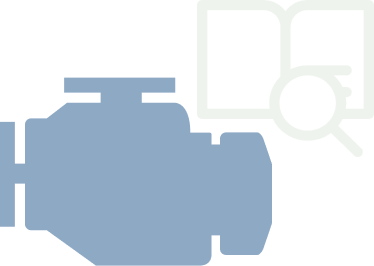
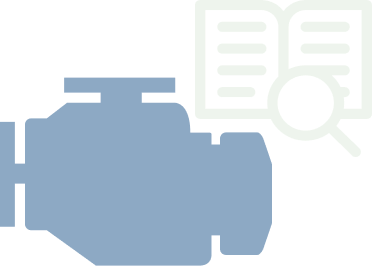
frontpage visually done

diff --git a/css/style.css b/css/style.css
@@ -19,22 +19,40 @@
   border-style: dotted;
   border-color: brown;
   border-width: 3px;
+  box-sizing: border-box;
+}
+
+/* basic setup */
+body {
+  margin: 0;
+  padding: 0;
+  font-family: "montserrat";
+  background-color: #0B2545;
+  color: #EEF4ED;
+}
+p {
+  margin: 0;
+  padding: 0;
+}
+h1 {
+  margin: 0;
 }
 
 /* pages */
 .frontpage {
   display: flex;
   flex-direction: row;
-  width: 100%;
+  width: 100vw;
 }
 
 .navigationBar {
   display: flex;
   flex-direction: column;
   width: 525px;
-  height: 100%;
+  height: 100vh;
   background-color: #134074;
 }
+
 .navigationBtn {
   display: flex;
   flex-direction: row;
@@ -48,6 +66,12 @@
   border-width: 7px;
 
   margin-bottom: 25px;
+
+  box-sizing: border-box;
+
+  color: #0B2545;
+  font-size: 24px;
+  font-weight: 600;
 }
 .navigationBtn img{
   width: 49px;
@@ -60,12 +84,176 @@
   display: flex;
   flex-direction: column;
   align-items: center;
+  font-size: 36px;
+  font-weight: 500;
+}
+
+#nbTitle {
+  font-size: 32px;
+  color: #8DA9C4;
+  margin-top: 0px;
+  margin-bottom: 44px;
+  text-align: center;
+}
+#nbName {
+  margin-top: 12px;
+  margin-bottom: 9px;
+  text-align: center;
 }
 
 .profile img{
   border-radius: 125px;
-  width: 250px;
+  width: 249px;
   border-style: solid;
   border-width: 5px;
   border-color: #8DA9C4;
+  box-sizing: border-box;
+
+  margin-top: 40px;
+  margin-left: 138px;
+  margin-right: 138px;
+}
+
+.timeline {
+  margin-left: 132px;
+}
+
+.timelineText {
+  margin-top: 40px;
+  width: 1090px;
+}
+
+#tlTitle1, #tlTitle2 {
+  font-size: 48px;
+  font-weight: bold;
+}
+
+#tlTitle2 {
+  margin-top: 0px;
+  color: #8DA9C4;
+}
+
+#tlText {
+  font-size: 22px;
+}
+
+.timeline {
+  width: 1125px;
+}
+
+.timelineTextbox {
+  width: 300px;
+  height: 250px;
+  background-color: #134074;
+  border-top-right-radius: 55px;
+  border-bottom-left-radius: 55px;
+  border-top-left-radius: 5px;
+  border-bottom-right-radius: 5px;
+
+  align-items: center;
+}
+
+.timelineTextbox p {
+  text-align: center;
+  font-size: 16px;
+}
+.timelineTextbox h1 {
+  text-align: center;
+  font-size: 20px;
+  margin-top: 20px;
+}
+
+.row2 {
+  background-color: #8DA9C4;
+  color: #134074;
+}
+
+.timelineImage {
+  height: 185px;
+  width: auto;
+  margin-right: 20px;
+  margin-left: 20px;
+}
+
+.timelineRow1 {
+  display: flex;
+  flex-direction: row;
+
+  align-items: center;
+  margin-top: 30px;
+}
+.timelineRow2 {
+  display: flex;
+  flex-direction: row;
+
+  align-items: center;
+}
+
+.timelineArrow {
+  position: relative;
+  display: flex;
+  flex-direction: row;
+
+  align-items: center;
+  text-align: center;
+
+  margin-top: 12px;
+  margin-bottom: 12px;
+}
+
+.timelineArrow p {
+  font-size: 24px;
+  font-weight: 600;
+  height: 36px;
+}
+
+.timelineArrow::before {
+  content: "";
+  position: absolute;
+  top: 50%;
+  left: 0;
+  right: 10px;
+  border-top: 3px dashed white;
+  transform: translateY(-50%);
+  z-index: 0;
+}
+
+.timelineArrow::after {
+  content: "";
+  position: absolute;
+  top: 50%;
+  right: 0;
+  transform: translateY(-50%);
+  border-top: 9px solid transparent;
+  border-bottom: 9px solid transparent;
+  border-left: 16px solid white;
+  z-index: 0;
+}
+
+.timelineArrow img {
+  width: 25px;
+  height: 44px;
+
+  position: relative;
+  z-index: 1;
+}
+
+.timelineStart {
+  position: absolute;
+  top: 50%;
+  left: 0;
+  width: 16px;
+  height: 16px;
+  border-radius: 50%;
+  background: white;
+  transform: translateY(-50%);
+  z-index: 0;
+}
+
+.timelineRow,
+.timelineArrow {
+  display: grid;
+  grid-template-columns: repeat(4, minmax(0, 1fr));
+  justify-items: center;
+  align-items: center;
 }

diff --git a/pages/frontpage.html b/pages/frontpage.html
@@ -3,8 +3,8 @@
     <div class="navigationBar">
         <div class="profile">
             <img src="images/mattiKliterne.jpg" alt="Billede af Matti Hedegaard Hansen">
-            <p>Matti Hedegaard Hansen</p>
-            <p>Computer Ingeniør</p>
+            <p id="nbName">Matti Hedegaard Hansen</p>
+            <p id="nbTitle">Computer Ingeniør</p>
         </div>
 
         <!--Menu buttons-->
@@ -35,35 +35,41 @@
     </div>
 
     <!--right Timeline div-->
-    <div>
+    <div class="timeline">
         <!--title and text (horizotnal)-->
-        <div>
-            <h1>Matti Hedegaard</h1>
-            <h1>Hansen</h1>
-            <p>some text to be replaced</p>
+        <div class="timelineText">
+            <p id="tlTitle1">Matti Hedegaard</p>
+            <p id="tlTitle2">Hansen</p>
+            <p id="tlText">some text to be replaced</p>
         </div>
 
         <!--top of timeline (vertical)-->
-        <!--first box (vertical)-->
-        <div>
-            <p>Uddanelse</p>
-            <p>beskrivelse</p>
-        </div>
+        <div class="timelineRow1 timelineRow">
+            <!--first box (vertical)-->
+            <div class="timelineTextbox">
+                <h1>EUX<br>Personvognsmekaniker</h1>
+                <p>beskrivelse</p>
+            </div>
 
-        <!--First icon-->
-        <img src="images/EUXIcon.png" alt="EUX Icon">
+            <!--First icon-->
+            <img class="timelineImage" src="images/EUXIcon.png" alt="EUX Icon">
 
-        <!--second box (vertical)-->
-        <div>
-            <p>Uddannelse</p>
-            <p>some text to be replaced</p>
-        </div>
+            <!--second box (vertical)-->
+            <div class="timelineTextbox">
+                <h1>Medialogi</h1>
+                <p>some text to be replaced</p>
+            </div>
 
-        <!--second image-->
-        <img src="images/medialogyIcon.png" alt="Medialogy Icon">
+            <!--second image-->
+            <img class="timelineImage" src="images/medialogyIcon.png" alt="Medialogy Icon">
+        </div>    
 
+        
         <!--Timeline arrow-->
-        <div>
+        <div class="timelineArrow">
+            <!--arrow-->
+            <div class="timelineStart"></div>
+
             <!--First year div-->
             <div>
                 <p>2017-2022</p>
@@ -94,24 +100,22 @@
         </div>
 
         <!--Bottom of timeline (vertical)-->
-        <div>
-            
-
+        <div class="timelineRow2 timelineRow">
             <!--First icon-->
-            <img src="images/engineIcon.png" alt="EUX Icon">
+            <img class="timelineImage" src="images/engineIcon.png" alt="EUX Icon">
 
             <!--first box (vertical)-->
-            <div>
-                <p>Uddannelse</p>
+            <div class="timelineTextbox row2">
+                <h1>Mekaniker Svend</h1>
                 <p>some text to be replaced</p>
             </div>
 
             <!--second image-->
-            <img src="images/CEIcon.png" alt="Computer ingenør Icon">
+            <img class="timelineImage" src="images/CEIcon.png" alt="Computer ingenør Icon">
 
             <!--second box (vertical)-->
-            <div>
-                <p>Uddanelse</p>
+            <div class="timelineTextbox row2">
+                <h1>Computer Ingenør</h1>
                 <p>beskrivelse</p>
             </div>
         </div>

diff --git a/includes/header.php b/includes/header.php
@@ -4,5 +4,9 @@
         <title>Matti Hedegaard - Portfolie</title>
         <link rel="stylesheet" href="css/style.css">
         <link rel="main" href="js/style.css">
+
+        <link rel="preconnect" href="https://fonts.googleapis.com">
+        <link rel="preconnect" href="https://fonts.gstatic.com" crossorigin>
+        <link href="https://fonts.googleapis.com/css2?family=Montserrat:wght@400;600;700&display=swap" rel="stylesheet">
     </head>
     <body>
